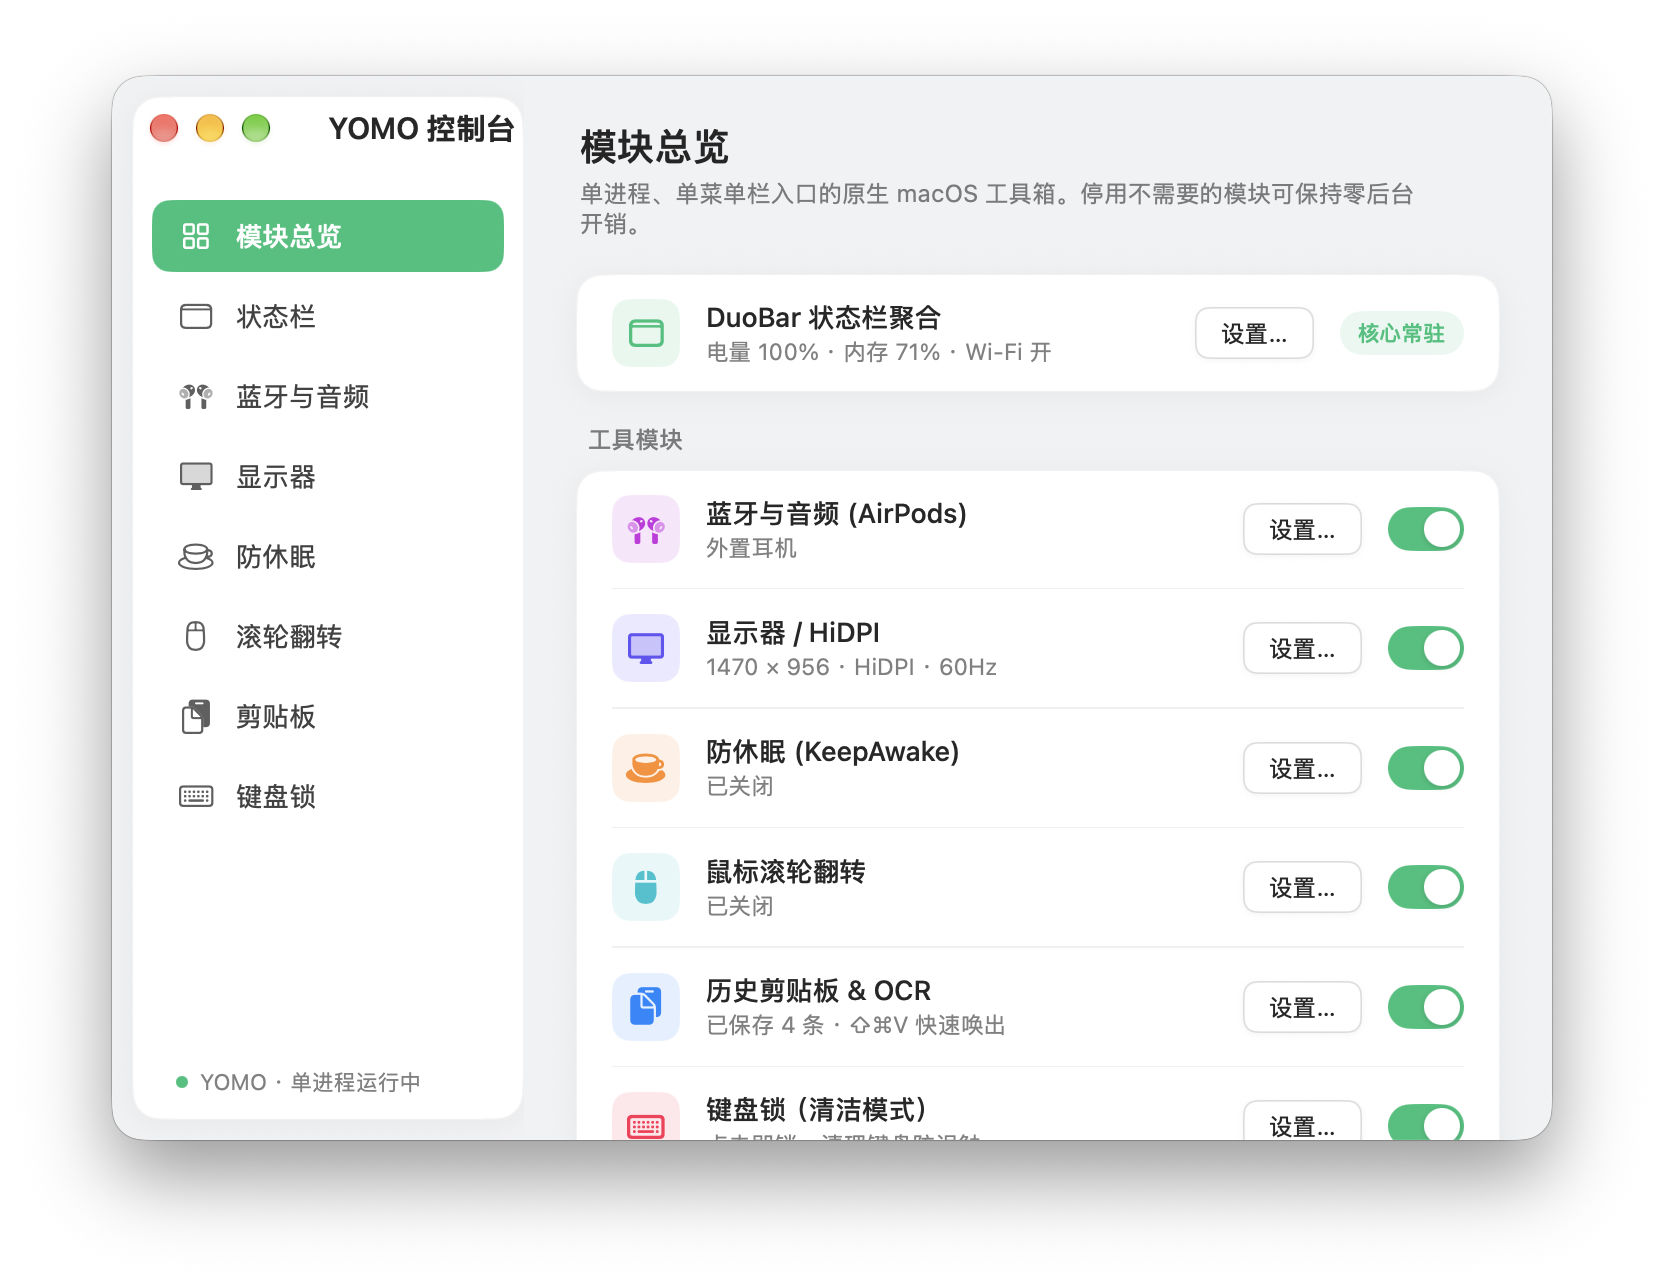
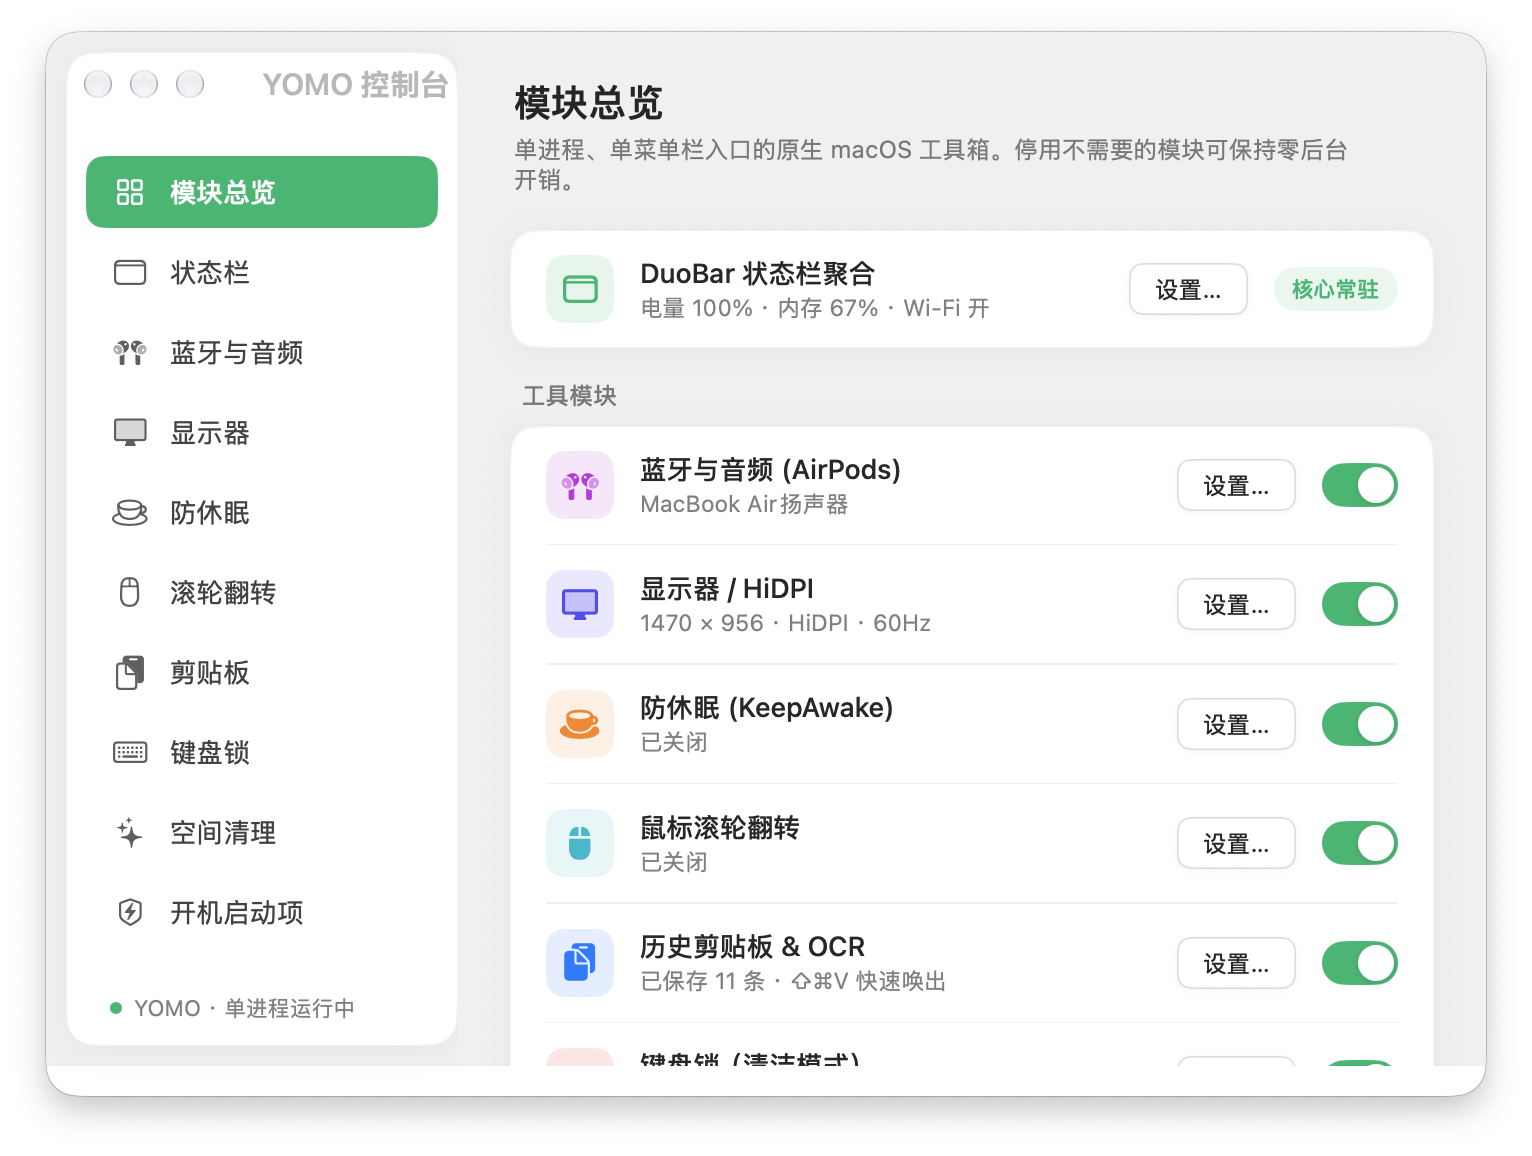
docs: add SpaceCleaner & Startup Items to README and bump version to v1.5.0

diff --git a/README_EN.md b/README_EN.md
@@ -207,7 +207,7 @@ Every extension module can be enabled or disabled independently in **Hub Console
     <td width="62%" valign="top">
       <p><b>Highlights</b></p>
       <ul>
-        <li><b>Instant Global Hotkey (<code>⇧⌘V</code>)</b>: Zero-permission native Carbon global shortcut lets you summon Clipboard History from any app.</li>
+        <li><b>Instant Global Hotkey (<code>⇧⌘V</code>) &amp; Spacebar Quick Preview</b>: Zero-permission native Carbon global shortcut jumps straight into Clipboard History from any app; hover over any image or long text entry and hold <b>Spacebar</b> for an instant floating full-size / full-text preview.</li>
         <li><b>Text &amp; Image History</b>: Automatically records copied text and screenshots (with off-main-thread PNG encoding), displaying source app icons and relative timestamps.</li>
         <li><b>On-Demand Vision OCR &amp; QR/Barcode Scanning</b>: Extract text (OCR) and scan QR/barcodes directly from any copied image using Apple's native offline <code>Vision</code> framework.</li>
         <li><b>Privacy-Aware Filtering</b>: Automatically skips sensitive pasteboard types (<code>ConcealedType</code> / <code>TransientType</code>) and password managers (Apple Passwords, 1Password, Bitwarden, KeePassXC, etc.).</li>
@@ -247,6 +247,30 @@ Every extension module can be enabled or disabled independently in **Hub Console
 
 ---
 
+### 8. Space Cleaner &amp; Startup Items
+
+<table>
+  <tr>
+    <td width="46%" align="center">
+      <img src="docs/screenshots/console-space-cleaner.png" alt="Space Cleaner Console" width="340" />
+    </td>
+    <td width="54%" valign="top">
+      <p><b>Highlights</b></p>
+      <ul>
+        <li><b>Zero-Subprocess Tiered Space Cleaner</b>: Native API scanning for system/app caches, developer build artifacts, and uninstalled app leftovers—automatically guarding Apple core services and currently running apps, with expandable paths, per-item checkboxes, and a cleanup report.</li>
+        <li><b>Grouped Startup Items Manager</b>: Groups <code>launchd</code> background items by app with real running status and app icons, reversible one-click toggles for user <code>LaunchAgents</code>, on-demand admin auth for system daemons, and direct links to macOS Login Items &amp; Extensions settings.</li>
+        <li><b>On-Demand Scanning</b>: Zero background scanning when the cleaner page is closed.</li>
+      </ul>
+      <p><b>Example</b></p>
+      <blockquote>
+        Running low on SSD space or tired of mystery background updaters? Open YOMO Console → Space Cleaner → click Smart Select to safely reclaim cache &amp; leftover gigabytes, then switch to Startup Items to toggle unwanted background agents off by app.
+      </blockquote>
+    </td>
+  </tr>
+</table>
+
+---
+
 ### Appearance & Customization
 
 <table>
@@ -272,7 +296,7 @@ Every extension module can be enabled or disabled independently in **Hub Console
 
 ### Option 1: Download Release DMG (Recommended)
 
-1. Download **`YOMO-v1.4.2.dmg`** from the [Releases page](https://github.com/vvkis/YOMO/releases) (clean **`YOMO-v1.4.2-source.zip`** and `SHA256SUMS.txt` are also provided).
+1. Download **`YOMO-v1.5.0.dmg`** from the [Releases page](https://github.com/vvkis/YOMO/releases) (clean **`YOMO-v1.5.0-source.zip`** and `SHA256SUMS.txt` are also provided).
 2. Open the `.dmg` and drag **`YOMO.app`** into **`Applications`**.
 3. Launch **YOMO**, open **Appearance & Style**, and enable **Launch at Login**.
 
@@ -307,7 +331,7 @@ open dist/YOMO.app
 
 # 3. (Optional) Build Release DMG + clean source ZIP + SHA256 checksums
 ./scripts/build-release.sh
-# Outputs: dist/YOMO-v1.4.2.dmg, dist/YOMO-v1.4.2-source.zip, dist/SHA256SUMS.txt
+# Outputs: dist/YOMO-v1.5.0.dmg, dist/YOMO-v1.5.0-source.zip, dist/SHA256SUMS.txt
 ```
 
 ### Permissions
